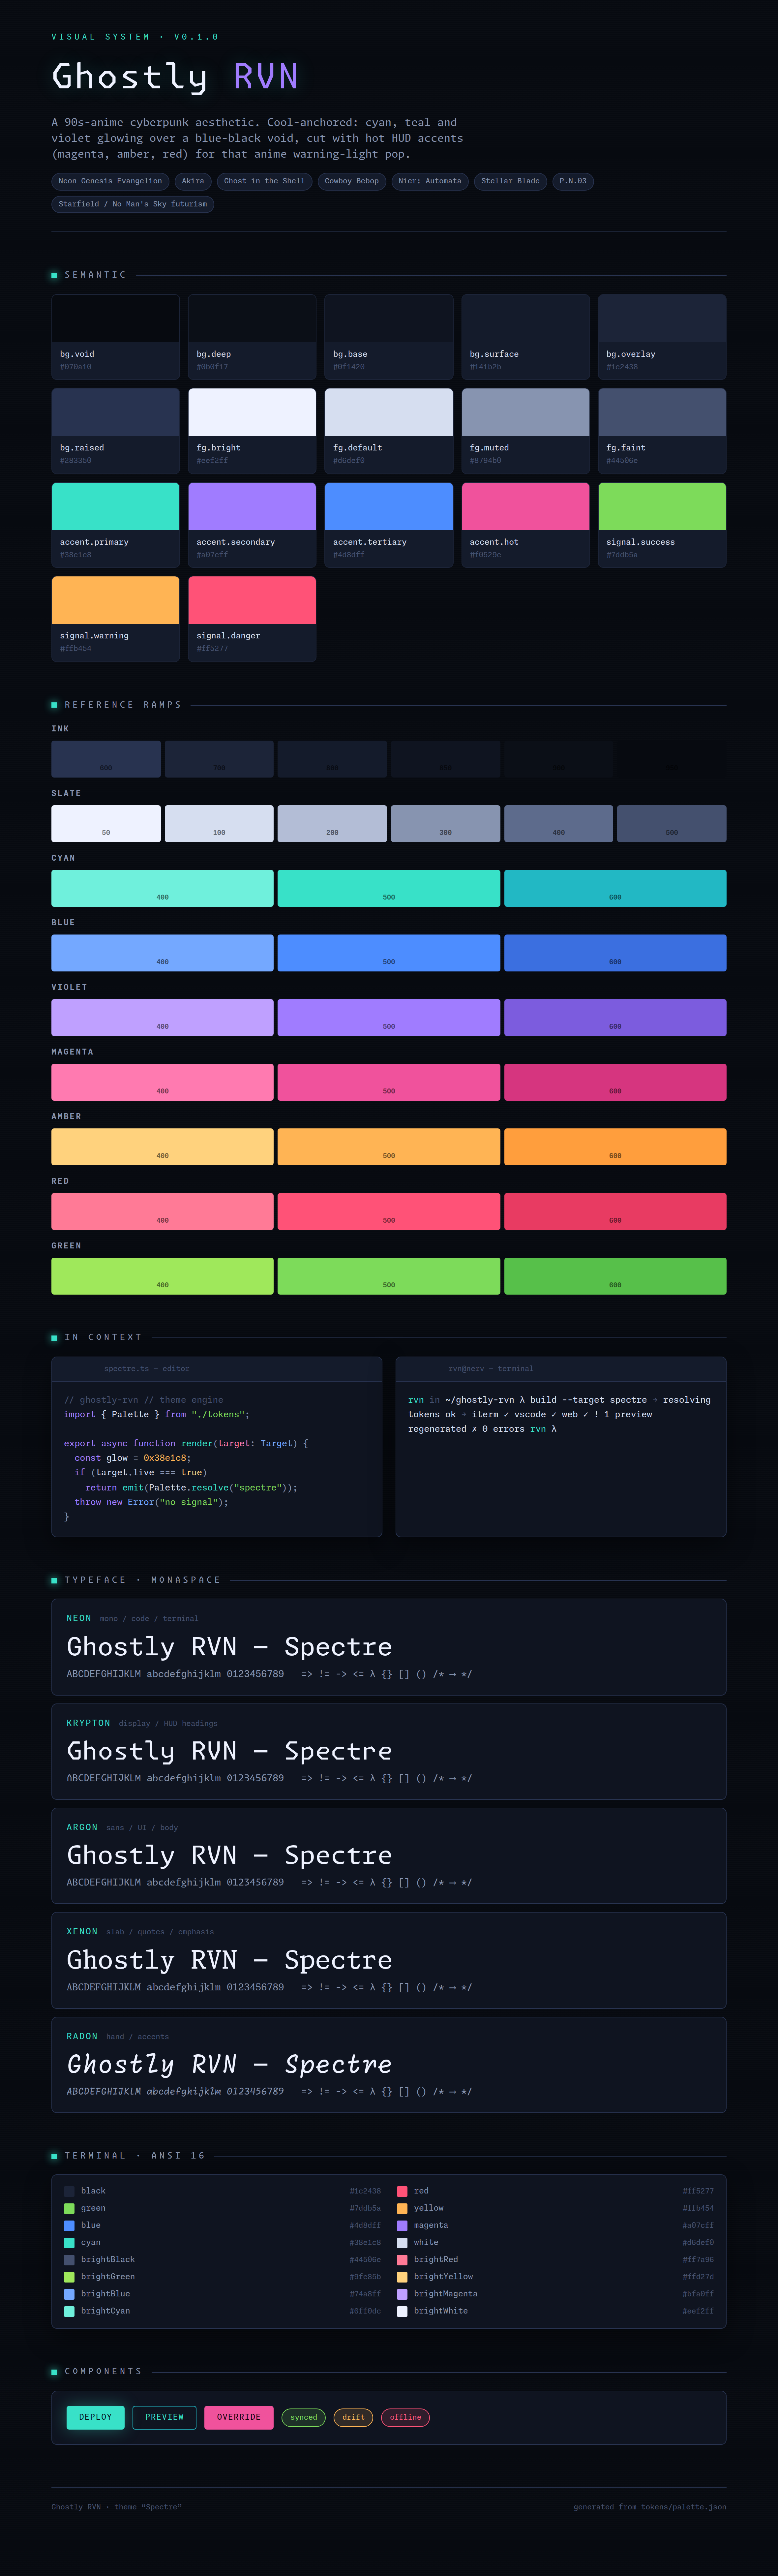
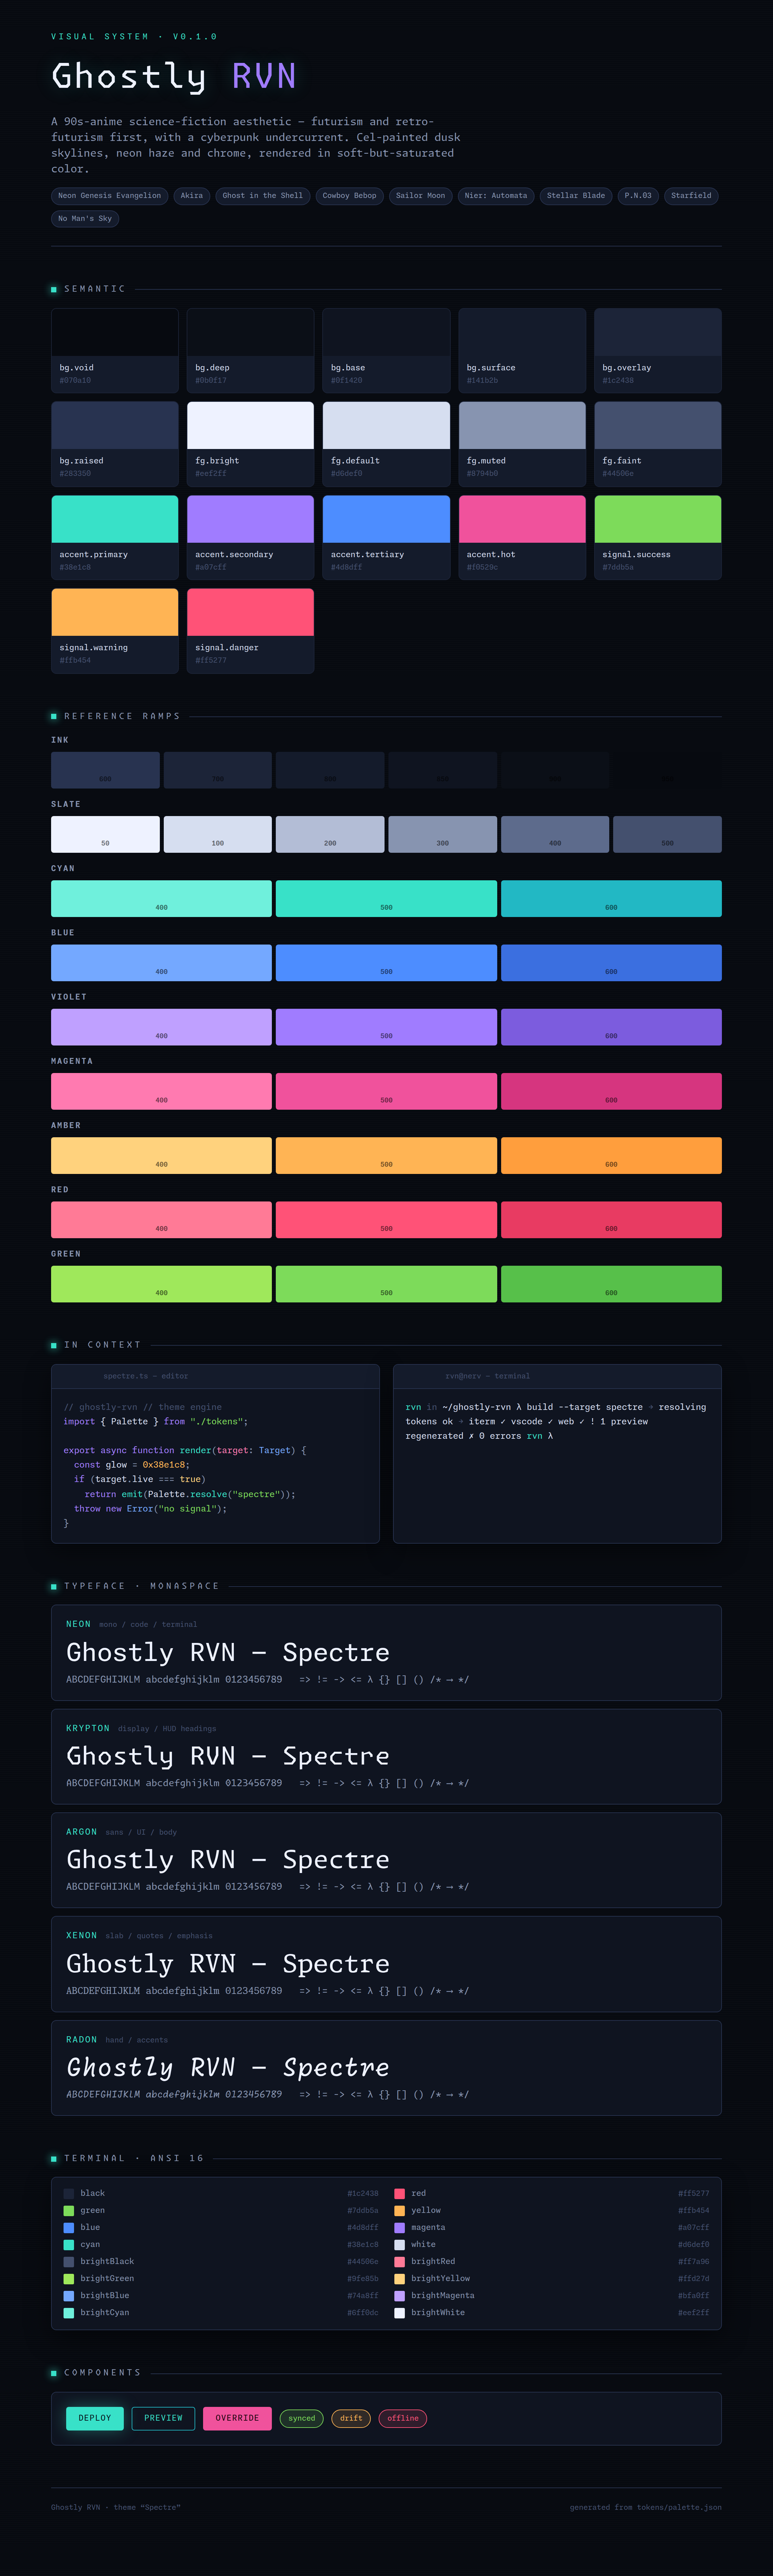
Reframe direction: sci-fi/futurism first, cyberpunk as undercurrent
Per feedback, the system identity shouldn't read cyberpunk-first — it's a
90s-anime science-fiction aesthetic (futurism + retro-futurism) with cyberpunk
as an undertone, especially in the dark theme. This sets up the planned trio
(Spectre dark + a Light + a Warm/Amber theme) sharing one token structure.

- tokens/palette.json: rewrite meta.description; split "Starfield / No Man's
  Sky futurism" into "Starfield" and "No Man's Sky"; add "Sailor Moon"
- README: matching reframe + note the planned theme trio

Claude-Session: https://claude.ai/code/session_01CUzkweGiebxexhDEUpTyzF

diff --git a/preview/index.html b/preview/index.html
@@ -99,8 +99,8 @@
   <header>
     <div class="eyebrow">Visual System · v0.1.0</div>
     <h1>Ghostly <b>RVN</b></h1>
-    <p class="lede">A 90s-anime cyberpunk aesthetic. Cool-anchored: cyan, teal and violet glowing over a blue-black void, cut with hot HUD accents (magenta, amber, red) for that anime warning-light pop.</p>
-    <div class="influences"><span class="tag">Neon Genesis Evangelion</span><span class="tag">Akira</span><span class="tag">Ghost in the Shell</span><span class="tag">Cowboy Bebop</span><span class="tag">Nier: Automata</span><span class="tag">Stellar Blade</span><span class="tag">P.N.03</span><span class="tag">Starfield / No Man's Sky futurism</span></div>
+    <p class="lede">A 90s-anime science-fiction aesthetic — futurism and retro-futurism first, with a cyberpunk undercurrent. Cel-painted dusk skylines, neon haze and chrome, rendered in soft-but-saturated color.</p>
+    <div class="influences"><span class="tag">Neon Genesis Evangelion</span><span class="tag">Akira</span><span class="tag">Ghost in the Shell</span><span class="tag">Cowboy Bebop</span><span class="tag">Sailor Moon</span><span class="tag">Nier: Automata</span><span class="tag">Stellar Blade</span><span class="tag">P.N.03</span><span class="tag">Starfield</span><span class="tag">No Man's Sky</span></div>
   </header>
 
   <h2>Semantic</h2>

diff --git a/README.md b/README.md
@@ -1,11 +1,14 @@
 # Ghostly RVN
 
-A personal visual system — **90s-anime cyberpunk**. Cool-anchored (cyan, teal,
-violet glowing over a blue-black void) cut with hot HUD accents (magenta, amber,
-red). Influences: *Evangelion · Akira · Ghost in the Shell · Cowboy Bebop ·
-Nier: Automata · Stellar Blade*.
+A personal visual system — **90s-anime science fiction**. Futurism and
+retro-futurism first, with a cyberpunk undercurrent: cel-painted dusk skylines,
+neon haze and chrome, in soft-but-saturated color. Influences: *Evangelion ·
+Akira · Ghost in the Shell · Cowboy Bebop · Sailor Moon · Nier: Automata ·
+Stellar Blade · Starfield · No Man's Sky*.
 
 One aesthetic, defined once, exported everywhere: terminal, editor, website.
+Planned as a trio of themes — **Spectre** (dark, shipping now), a Light theme,
+and a Warm/Amber theme — that share one token structure.
 
 ## How it works
 